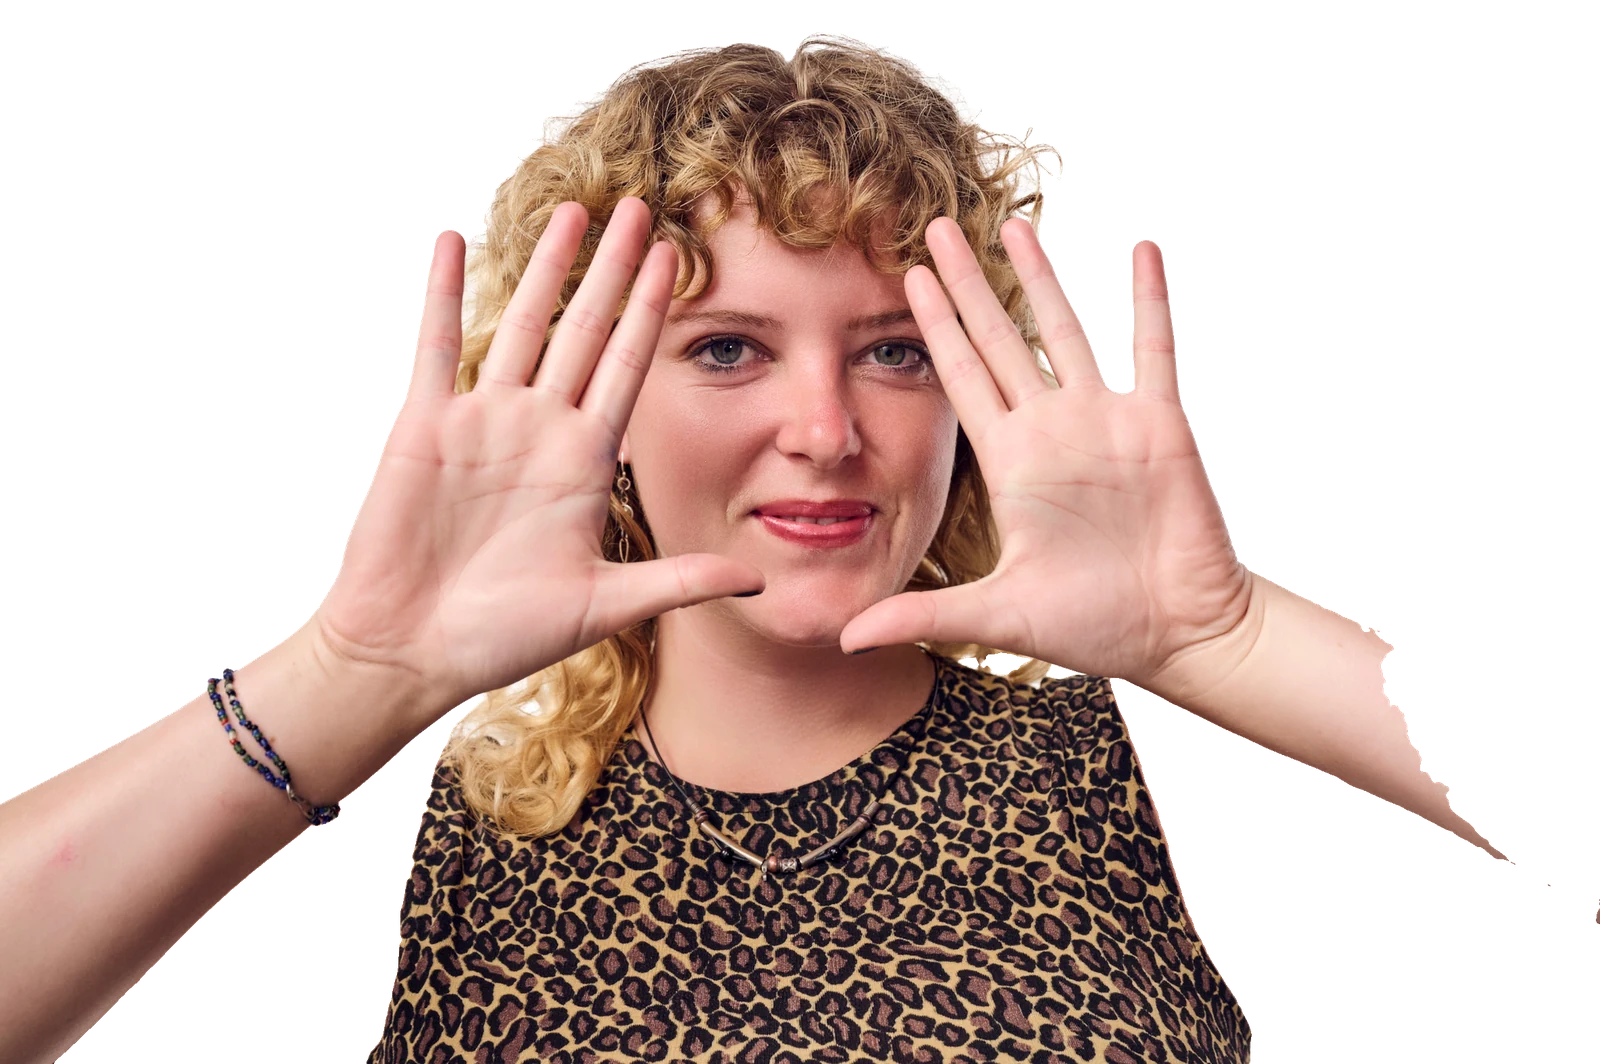
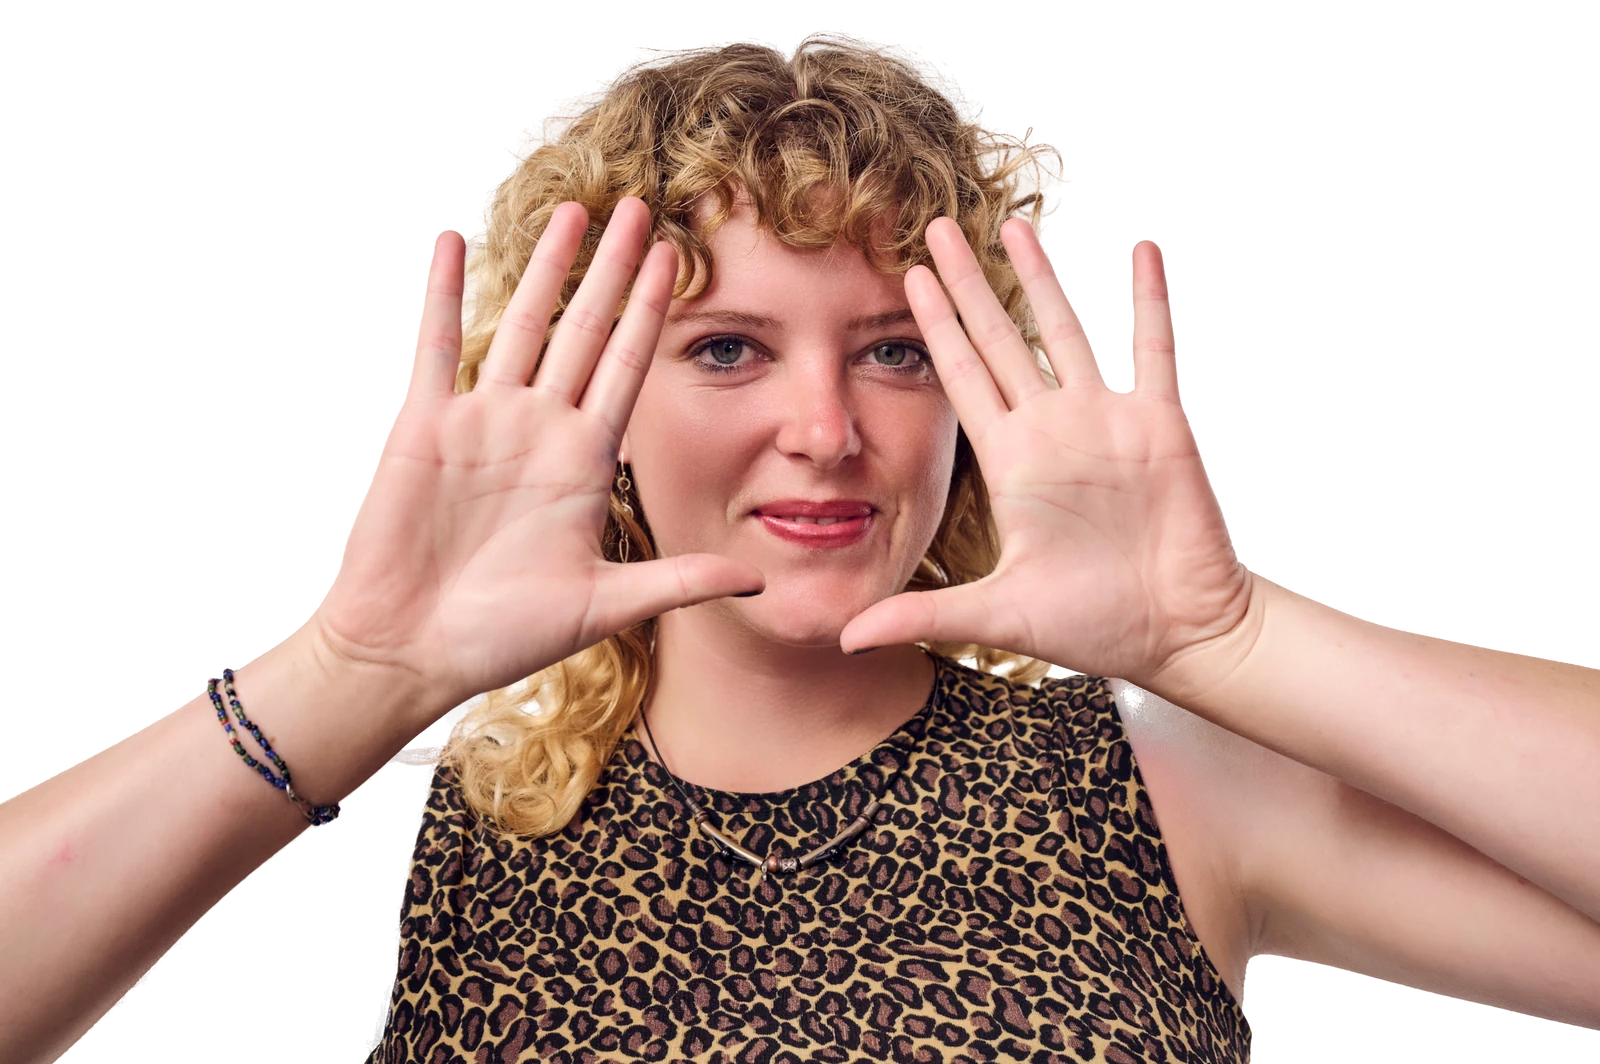
Fiona: seated quote box above four images, cleaner hair cut-outs, tune settings
Claude-Session: https://claude.ai/code/session_012U18n2jx8i57thyH5Nwtnb

diff --git a/features/fiona-dowdee/index.html b/features/fiona-dowdee/index.html
@@ -314,6 +314,13 @@ footer p span{color:#fff;white-space:nowrap}
       <cite>Fiona Dowdee</cite>
     </div>
 
+    <div class="wrap wide">
+      <div class="pq ir boxed">
+        <div class="q" style="position:relative;top:107px;left:60px"><blockquote class="long">“Teaching art and sharing art with everyone from every walk of life is my goal.”</blockquote><cite>Fiona Dowdee</cite></div>
+        <figure><span class="crop"><img loading="lazy" src="/features/fiona-dowdee/img/seated.webp" alt="Fiona Dowdee seated, hands folded on her knee" style="object-position:50% 100%;transform-origin:50% 100%;transform:translate(-19px, -155px) scale(0.9)"></span></figure>
+      </div>
+    </div>
+
     <div class="wrap wide g g4">
       <figure><span class="crop"><img loading="lazy" src="/features/fiona-dowdee/img/pixel.jpg" alt="A painting of a woman dissolving into coloured pixels" style="aspect-ratio:3/4;object-position:50% 50%"></span></figure>
       <figure><span class="crop"><img loading="lazy" src="/features/fiona-dowdee/img/brain.jpg" alt="Fiona Dowdee seated in front of her painting of a brain scan" style="aspect-ratio:3/4;object-position:50% 50%"></span></figure>
@@ -321,15 +328,8 @@ footer p span{color:#fff;white-space:nowrap}
       <figure><span class="crop"><img loading="lazy" src="/features/fiona-dowdee/img/figures.jpg" alt="A painting of figures in blue light behind red bars" style="aspect-ratio:3/4;object-position:50% 50%"></span></figure>
     </div>
 
-    <div class="wrap wide">
-      <div class="pq ir boxed">
-        <div class="q"><blockquote class="long">“Teaching art and sharing art with everyone from every walk of life is my goal.”</blockquote><cite>Fiona Dowdee</cite></div>
-        <figure><span class="crop"><img loading="lazy" src="/features/fiona-dowdee/img/seated.webp" alt="Fiona Dowdee seated, hands folded on her knee"></span></figure>
-      </div>
-    </div>
-
     <div class="wrap col">
-      <h2><small>Indivisible Arts</small>Beyond her own studio</h2>
+      <h2 style="position:relative;top:-4px"><small>Indivisible Arts</small>Beyond her own studio</h2>
       <p>That same belief in the power of creativity eventually led Fiona beyond her own studio.</p>
       <p>After meeting Rafael McMaster (founder of Indivisible Arts, a nonprofit organization that empowers youth through creativity), at her high school art show, Fiona shared her dream of creating a space where young adults could gather, make art, and build community. After graduating, she joined Indivisible Arts and eventually became Youth Program Manager.</p>
       <p>Today, she mentors children navigating anxiety, bullying, and other difficult life experiences, using creativity to help them build confidence, resilience, and connection.</p>

diff --git a/_build/feature-template/fiona-dowdee-source.html b/_build/feature-template/fiona-dowdee-source.html
@@ -307,6 +307,13 @@ footer p span{color:#fff;white-space:nowrap}
       <cite>Fiona Dowdee</cite>
     </div>
 
+    <div class="wrap wide">
+      <div class="pq ir boxed">
+        <div class="q" style="position:relative;top:107px;left:60px"><blockquote class="long">“Teaching art and sharing art with everyone from every walk of life is my goal.”</blockquote><cite>Fiona Dowdee</cite></div>
+        <figure><span class="crop"><img src="{{seated}}" alt="Fiona Dowdee seated, hands folded on her knee" style="object-position:50% 100%;transform-origin:50% 100%;transform:translate(-19px, -155px) scale(0.9)"></span></figure>
+      </div>
+    </div>
+
     <div class="wrap wide g g4">
       <figure><span class="crop"><img src="{{pixel}}" alt="A painting of a woman dissolving into coloured pixels" style="aspect-ratio:3/4;object-position:50% 50%"></span></figure>
       <figure><span class="crop"><img src="{{brain}}" alt="Fiona Dowdee seated in front of her painting of a brain scan" style="aspect-ratio:3/4;object-position:50% 50%"></span></figure>
@@ -314,15 +321,8 @@ footer p span{color:#fff;white-space:nowrap}
       <figure><span class="crop"><img src="{{figures}}" alt="A painting of figures in blue light behind red bars" style="aspect-ratio:3/4;object-position:50% 50%"></span></figure>
     </div>
 
-    <div class="wrap wide">
-      <div class="pq ir boxed">
-        <div class="q"><blockquote class="long">“Teaching art and sharing art with everyone from every walk of life is my goal.”</blockquote><cite>Fiona Dowdee</cite></div>
-        <figure><span class="crop"><img src="{{seated}}" alt="Fiona Dowdee seated, hands folded on her knee"></span></figure>
-      </div>
-    </div>
-
     <div class="wrap col">
-      <h2><small>Indivisible Arts</small>Beyond her own studio</h2>
+      <h2 style="position:relative;top:-4px"><small>Indivisible Arts</small>Beyond her own studio</h2>
       <p>That same belief in the power of creativity eventually led Fiona beyond her own studio.</p>
       <p>After meeting Rafael McMaster (founder of Indivisible Arts, a nonprofit organization that empowers youth through creativity), at her high school art show, Fiona shared her dream of creating a space where young adults could gather, make art, and build community. After graduating, she joined Indivisible Arts and eventually became Youth Program Manager.</p>
       <p>Today, she mentors children navigating anxiety, bullying, and other difficult life experiences, using creativity to help them build confidence, resilience, and connection.</p>
